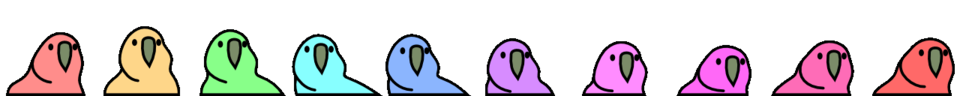
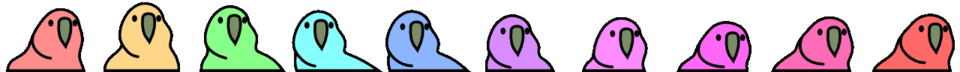
option to set number of frames

Changed region(s): [[0.0, 0.0278, 1.0, 1.0]]

diff --git a/app/assets/js/scripts.min.js b/app/assets/js/scripts.min.js
@@ -6,4 +6,4 @@
  * @version 1.0.5
  * Copyright 2018. MIT licensed.
  */
-window.addEventListener("load",function(){function i(){n.canvas.width=innerWidth,n.canvas.height=innerHeight}function t(i,t,h){var e=new Image;return e.src=i,e.width=t,e.height=h,e}function h(i,t,h,e,o){this.image=i,this.width=i.width,this.height=i.height,this.frames=10,this.xCoor=t,this.yCoor=h,this.xDirection=e,this.yDirection=e,this.headBobbingSpeed=o,this.frameIndex=0,this.count=0,d.push(this),this.renderParrot=function(){n.drawImage(this.image,this.frameIndex*this.width/this.frames,0,this.width/this.frames,this.height,this.xCoor,this.yCoor,this.width/this.frames,this.height)},this.spriteAnimation=function(){this.count+=1,this.count>this.headBobbingSpeed&&(this.count=0,this.frameIndex<this.frames-1?this.frameIndex+=1:this.frameIndex=0)},this.moveParrot=function(){this.xCoor+this.height<s.width&&this.xCoor>-(.1*this.height)?this.xCoor+=this.xDirection:(this.xDirection=this.xDirection*-1,this.xCoor+=this.xDirection),this.yCoor+this.height<s.height&&this.yCoor>-(.5*this.height)?this.yCoor+=this.yDirection:(this.yDirection=this.yDirection*-1,this.yCoor+=this.yDirection)},this.animate=function(){this.renderParrot(),this.spriteAnimation(),this.moveParrot()},this.party=function(){this.image.onload=this.animate()}}function e(){n.clearRect(0,0,s.width,s.height),d.forEach(function(i){i.party()}),window.requestAnimationFrame(e)}var s=document.getElementById("screensaver"),n=s.getContext("2d");i(),window.addEventListener("resize",function(){i()});var o=t("assets/img/parrot-x-sm.png",640,64),r=t("assets/img/parrot-x-md.png",960,96),a=t("assets/img/parrot-x-lg.png",1280,128),d=[];new h(o,400,50,(-1),5),new h(r,0,0,2,3),new h(a,1e3,0,4,2);e()});
+window.addEventListener("load",function(){function i(){n.canvas.width=innerWidth,n.canvas.height=innerHeight}function t(i,t,h,e){var s=new Image;return s.src=i,s.width=t,s.height=h,s.frames=e,s}function h(i,t,h,e,r){this.image=i,this.width=i.width,this.height=i.height,this.frames=i.frames,this.xCoor=t,this.yCoor=h,this.xDirection=e,this.yDirection=e,this.headBobbingSpeed=r,this.frameIndex=0,this.count=0,d.push(this),this.renderParrot=function(){n.drawImage(this.image,this.frameIndex*this.width/this.frames,0,this.width/this.frames,this.height,this.xCoor,this.yCoor,this.width/this.frames,this.height)},this.spriteAnimation=function(){this.count+=1,this.count>this.headBobbingSpeed&&(this.count=0,this.frameIndex<this.frames-1?this.frameIndex+=1:this.frameIndex=0)},this.moveParrot=function(){this.xCoor+this.height<s.width&&this.xCoor>=0?this.xCoor+=this.xDirection:(this.xDirection=this.xDirection*-1,this.xCoor+=this.xDirection),this.yCoor+this.height<s.height&&this.yCoor>=0?this.yCoor+=this.yDirection:(this.yDirection=this.yDirection*-1,this.yCoor+=this.yDirection)},this.animate=function(){this.renderParrot(),this.spriteAnimation(),this.moveParrot()},this.party=function(){this.image.onload=this.animate()}}function e(){n.clearRect(0,0,s.width,s.height),d.forEach(function(i){i.party()}),window.requestAnimationFrame(e)}var s=document.getElementById("screensaver"),n=s.getContext("2d");i(),window.addEventListener("resize",function(){i()});var r=t("assets/img/parrot-x-sm.png",640,47,10),o=t("assets/img/parrot-x-md.png",960,72,10),a=t("assets/img/parrot-x-lg.png",1280,93,10),d=[];new h(r,400,50,(-1),5),new h(o,0,0,2,3),new h(a,1e3,0,4,2);e()});

diff --git a/app/assets/js/scripts.js b/app/assets/js/scripts.js
@@ -24,17 +24,18 @@ window.addEventListener('load', function() {
 
 
     /* Create Screensaver Images */
-    function screensaverImg(imgSrc, imgWidth, imgHeight) {
+    function screensaverImg(imgSrc, imgWidth, imgHeight, numOfFrames) {
       var image = new Image();
       image.src = imgSrc;
       image.width = imgWidth;
       image.height = imgHeight;
+      image.frames = numOfFrames;
       return image;
     };
 
-    var smParrotImg = screensaverImg("assets/img/parrot-x-sm.png", 640, 64);
-    var mdParrotImg = screensaverImg("assets/img/parrot-x-md.png", 960, 96);
-    var lgParrotImg = screensaverImg("assets/img/parrot-x-lg.png", 1280, 128);
+    var smParrotImg = screensaverImg("assets/img/parrot-x-sm.png", 640, 47, 10);
+    var mdParrotImg = screensaverImg("assets/img/parrot-x-md.png", 960, 72, 10);
+    var lgParrotImg = screensaverImg("assets/img/parrot-x-lg.png", 1280, 93, 10);
 
     var partyAnimals = [];
 
@@ -43,7 +44,7 @@ window.addEventListener('load', function() {
       this.image = image;
       this.width = image.width;
       this.height = image.height;
-      this.frames = 10;
+      this.frames = image.frames;
       this.xCoor = startingXpos;                // starting x coordinate
       this.yCoor = startingYpos;                // staring y coordinate
       this.xDirection = speed;                  // x speed
@@ -82,7 +83,7 @@ window.addEventListener('load', function() {
 
       this.moveParrot = function() {
         // check x bounds
-        if ( this.xCoor + this.height < canvas.width && this.xCoor > -(this.height * 0.1) ) {
+        if ( this.xCoor + this.height < canvas.width && this.xCoor >= 0 ) {
           this.xCoor += this.xDirection; // keep going same direction
         } else { // change directions
           this.xDirection = this.xDirection * -1;
@@ -90,7 +91,7 @@ window.addEventListener('load', function() {
         };
 
         // check y bounds
-        if ( this.yCoor + this.height < canvas.height && this.yCoor > -(this.height * 0.5) ) {
+        if ( this.yCoor + this.height < canvas.height && this.yCoor >= 0 ) {
           this.yCoor += this.yDirection; // keep going same direction
         } else { // change directions
           this.yDirection = this.yDirection * -1;

diff --git a/src/js/scripts.js b/src/js/scripts.js
@@ -16,17 +16,18 @@ window.addEventListener('load', function() {
 
 
     /* Create Screensaver Images */
-    function screensaverImg(imgSrc, imgWidth, imgHeight) {
+    function screensaverImg(imgSrc, imgWidth, imgHeight, numOfFrames) {
       var image = new Image();
       image.src = imgSrc;
       image.width = imgWidth;
       image.height = imgHeight;
+      image.frames = numOfFrames;
       return image;
     };
 
-    var smParrotImg = screensaverImg("assets/img/parrot-x-sm.png", 640, 64);
-    var mdParrotImg = screensaverImg("assets/img/parrot-x-md.png", 960, 96);
-    var lgParrotImg = screensaverImg("assets/img/parrot-x-lg.png", 1280, 128);
+    var smParrotImg = screensaverImg("assets/img/parrot-x-sm.png", 640, 47, 10);
+    var mdParrotImg = screensaverImg("assets/img/parrot-x-md.png", 960, 72, 10);
+    var lgParrotImg = screensaverImg("assets/img/parrot-x-lg.png", 1280, 93, 10);
 
     var partyAnimals = [];
 
@@ -35,7 +36,7 @@ window.addEventListener('load', function() {
       this.image = image;
       this.width = image.width;
       this.height = image.height;
-      this.frames = 10;
+      this.frames = image.frames;
       this.xCoor = startingXpos;                // starting x coordinate
       this.yCoor = startingYpos;                // staring y coordinate
       this.xDirection = speed;                  // x speed
@@ -74,7 +75,7 @@ window.addEventListener('load', function() {
 
       this.moveParrot = function() {
         // check x bounds
-        if ( this.xCoor + this.height < canvas.width && this.xCoor > -(this.height * 0.1) ) {
+        if ( this.xCoor + this.height < canvas.width && this.xCoor >= 0 ) {
           this.xCoor += this.xDirection; // keep going same direction
         } else { // change directions
           this.xDirection = this.xDirection * -1;
@@ -82,7 +83,7 @@ window.addEventListener('load', function() {
         };
 
         // check y bounds
-        if ( this.yCoor + this.height < canvas.height && this.yCoor > -(this.height * 0.5) ) {
+        if ( this.yCoor + this.height < canvas.height && this.yCoor >= 0 ) {
           this.yCoor += this.yDirection; // keep going same direction
         } else { // change directions
           this.yDirection = this.yDirection * -1;
